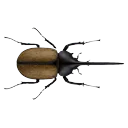
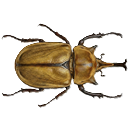
beetle resize

Changed region(s): [[0.0, 0.1875, 1.0, 0.8438]]

diff --git a/client/src/utils/beetleData.js b/client/src/utils/beetleData.js
@@ -16,7 +16,7 @@ export const beetleTypes = {
     count: 6,
     cost: 10,
     color: '#2E8B57',
-    size: 13,
+    size: 14.5,
     imageScale: 1.1,
     gachaRate: 0.872,
     purchasePrice: null,
@@ -34,7 +34,7 @@ export const beetleTypes = {
     count: 3,
     cost: 20,
     color: '#654321',
-    size: 15.5,
+    size: 17.8,
     imageScale: 1.35,
     gachaRate: 0.034,
     purchasePrice: 20000,
@@ -50,7 +50,7 @@ export const beetleTypes = {
     count: 0,
     cost: 22,
     color: '#6B4423',
-    size: 16,
+    size: 18,
     imageScale: 1.4,
     gachaRate: 0.033,
     purchasePrice: 20000,
@@ -66,7 +66,7 @@ export const beetleTypes = {
     count: 0,
     cost: 23,
     color: '#704214',
-    size: 16.5,
+    size: 18.8,
     imageScale: 1.45,
     gachaRate: 0.033,
     purchasePrice: 20000,
@@ -84,7 +84,7 @@ export const beetleTypes = {
     count: 2,
     cost: 30,
     color: '#A0522D',
-    size: 16.7,
+    size: 18.8,
     imageScale: 1.5,
     gachaRate: 0.005,
     purchasePrice: 50000,
@@ -100,7 +100,7 @@ export const beetleTypes = {
     count: 0,
     cost: 29,
     color: '#2C1810',
-    size: 16.3,
+    size: 18,
     imageScale: 1.55,
     gachaRate: 0.005,
     purchasePrice: 50000,
@@ -116,7 +116,7 @@ export const beetleTypes = {
     count: 0,
     cost: 35,
     color: '#c6b8a7ff',
-    size: 20,
+    size: 22.5,
     imageScale: 2.0,
     gachaRate: 0.005,
     purchasePrice: 50000,
@@ -132,7 +132,7 @@ export const beetleTypes = {
     count: 0,
     cost: 32,
     color: '#5C4033',
-    size: 18,
+    size: 19.5,
     imageScale: 1.65,
     gachaRate: 0.005,
     purchasePrice: 50000,
@@ -150,7 +150,7 @@ export const beetleTypes = {
     count: 1,
     cost: 40,
     color: '#b2c28eff',
-    size: 19.5,
+    size: 20.8,
     imageScale: 1.9,
     gachaRate: 0.00125,
     purchasePrice: 200000,
@@ -166,7 +166,7 @@ export const beetleTypes = {
     count: 0,
     cost: 39,
     color: '#293859ff',
-    size: 18.5,
+    size: 19.8,
     imageScale: 1.8,
     gachaRate: 0.00125,
     purchasePrice: 200000,
@@ -182,7 +182,7 @@ export const beetleTypes = {
     count: 0,
     cost: 38,
     color: '#322320ff',
-    size: 18,
+    size: 19.2,
     imageScale: 1.8,
     gachaRate: 0.00125,
     purchasePrice: 200000,
@@ -198,7 +198,7 @@ export const beetleTypes = {
     count: 0,
     cost: 38,
     color: '#120303ff',
-    size: 17.5,
+    size: 18.8,
     imageScale: 1.7,
     gachaRate: 0.00125,
     purchasePrice: 200000,
@@ -216,7 +216,7 @@ export const beetleTypes = {
     count: 0,
     cost: 50,
     color: '#f33939b8',
-    size: 20,
+    size: 20.5,
     imageScale:2.0,
     gachaRate: 0.00067,
     purchasePrice: 500000,
@@ -232,7 +232,7 @@ export const beetleTypes = {
     count: 0,
     cost: 50,
     color: '#65b329ff',
-    size: 19.5,
+    size: 20.5,
     imageScale: 2.0,
     gachaRate: 0.00067,
     purchasePrice: 500000,
@@ -248,7 +248,7 @@ export const beetleTypes = {
     count: 0,
     cost: 15,
     color: '#1bececff',
-    size: 14,
+    size: 14.8,
     imageScale: 1.15,
     gachaRate: 0.00066,
     purchasePrice: 500000,
@@ -266,7 +266,7 @@ export const beetleTypes = {
     count: 0,
     cost: 60,
     color: '#57d27caa',
-    size: 21.5,
+    size: 21.8,
     imageScale: 2.05,
     gachaRate: 0.0005,
     purchasePrice: null,
@@ -282,7 +282,7 @@ export const beetleTypes = {
     count: 0,
     cost: 62,
     color: '#67dae06f',
-    size: 21.8,
+    size: 22.2,
     imageScale: 2.1,
     gachaRate: 0.0005,
     purchasePrice: null,

diff --git a/client/src/components/Game/BeetleGame.jsx b/client/src/components/Game/BeetleGame.jsx
@@ -450,9 +450,23 @@ const BeetleGame = () => {
   const handleReturnToTitle = () => {
     setIsRunning(false);
     setWinner(null);
-    setRedNectar(0);  // ← 追加
-    setBlueNectar(0);  // ← 追加
-    setTimeLeft(GAME_CONFIG.GAME_TIME);  // ← 追加
+    setRedNectar(0);
+    setBlueNectar(0);
+    setTimeLeft(GAME_CONFIG.GAME_TIME);
+    setSelectedBeetle(null);
+    gameStatsRef.current = { nectarDelivered: 0, enemiesDefeated: 0 };
+    
+    // ゲーム状態を完全にリセット
+    if (canvasRef.current) {
+      gameStateRef.current = createInitialGameState(
+        canvasRef.current.width,
+        canvasRef.current.height,
+        playerData.deck,
+        playerData.beetleUpgrades,
+        difficulty
+      );
+    }
+    
     setGamePhase('waiting');
     setResetTrigger(prev => prev + 1);
   };

diff --git a/client/src/utils/canvasDrawing.js b/client/src/utils/canvasDrawing.js
@@ -93,14 +93,8 @@ const drawBeetleWithRotation = (ctx, beetle, size) => {
     const scale = bType.imageScale || 1.0;
     const drawSize = size * scale;
     
-    // 円形の半透明背景を描画（白）
-    ctx.fillStyle = 'rgba(65, 75, 65, 0.6)';
-    ctx.beginPath();
-    ctx.arc(0, 0, drawSize * 0.6, 0, Math.PI * 2);
-    ctx.fill();
-    
-    // 影を追加（白い縁取り）
-    ctx.shadowColor = 'rgba(255, 255, 255, 0.8)';
+    // 影を追加（黒い縁取り）
+    ctx.shadowColor = 'rgba(50, 50, 50, 0.8)';
     ctx.shadowBlur = 8;
     ctx.shadowOffsetX = 0;
     ctx.shadowOffsetY = 0;
